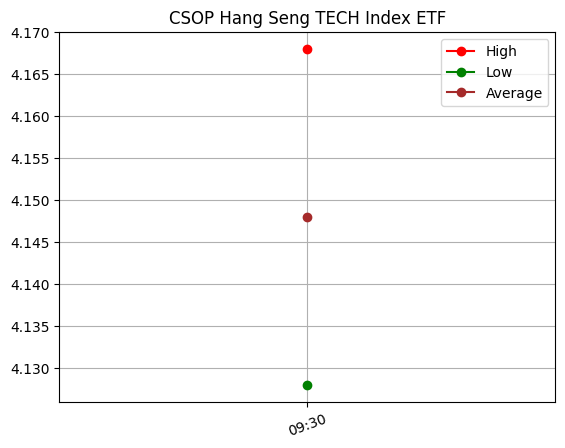
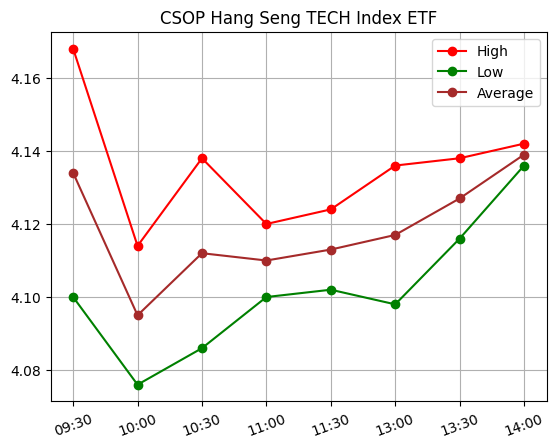
update

diff --git a/update.py b/update.py
@@ -5,14 +5,11 @@ from pathlib import Path
 import matplotlib.pyplot as plt
 import os
 
-index_html = Path("./index.html").resolve()
 index_md = Path("./index.md").resolve()
 record_dir = Path("./record").resolve()
 list_dir = Path("./stock_list").resolve()
 img_dir = Path("image")
 summary_md_dir = Path("summary.md")
-summary_html_dir = Path("summary.html")
-
 
 def get_yahoo_longname(symbol):
     import urllib
@@ -69,23 +66,27 @@ update_stock_7d = lambda name, my_price, hold_n: update_stock(name, my_price, ho
 update_stock_1m = lambda name, my_price, hold_n: update_stock(name, my_price, hold_n, "1d", "30m", "%H:%M")
 
 dir_to_url = lambda abs_dir: '/'+'/'.join(abs_dir.parts[2:])
-dir_to_md = lambda abs_dir: '/'+'/'.join(abs_dir.parts[3:])
+rel_dir_to_md = lambda rel_dir: '/'.join(rel_dir.parts[3:])
 
-def write_html(html_f, dir, display_text, type):
-    url = dir_to_url(dir)
-    match type:
-        case 'a':
-            html_f.write('<a href="{}">{}</a>'.format(url, display_text))
-        case 'i':
-            html_f.write('<img src="{}" alt="{}"/>\n'.format(url, display_text))
+#def write_html(html_f, dir, display_text, type):
+#    url = dir_to_url(dir)
+#    match type:
+#        case 'a':
+#            html_f.write('<a href="{}">{}</a>'.format(url, display_text))
+#        case 'i':
+#            html_f.write('<img src="{}" alt="{}"/>\n'.format(url, display_text))
 
-def write_md(md_f, dir, display_text):
-    md = dir_to_md(dir)
-    md_f.write('![{}]({})'.format(display_text, md))
+def write_link(md_f, dir, display_text):
+    md = rel_dir_to_md(dir)
+    md_f.write('[{}]({})'.format(display_text, md))
 
-def write_html_md(html_f, md_f, img_dir, display_text, type):
-    write_html(html_f, img_dir, display_text, type)
-    write_md(md_f, img_dir, display_text)
+def write_img(md_f, dir, display_text):
+    md_f.write('!')
+    write_link(md_f, dir, display_text)
+
+#def write_html_md(html_f, md_f, img_dir, display_text, type):
+#    write_html(html_f, img_dir, display_text, type)
+#    write_md(md_f, img_dir, display_text)
 
 mkdir_p = lambda path: path.mkdir(parents=True, exist_ok=True)
 
@@ -93,66 +94,58 @@ mkdir_p = lambda path: path.mkdir(parents=True, exist_ok=True)
 #init
 mkdir_p(record_dir)
 
-with open(index_html, "w+") as f_index_html:
-    with open(index_md, "w+") as f_index_md:
+with open(index_md, "w+") as f_index_md:
+    for f_name in os.listdir(list_dir):
+        f_dir = list_dir.joinpath(f_name)
 
-        f_index_html.write('<!DOCTYPE html>\n')
-        for f_name in os.listdir(list_dir):
-            f_dir = list_dir.joinpath(f_name)
+        f_stem = f_dir.stem
 
-            f_stem = f_dir.stem
+        f_set_dir = record_dir.joinpath(f_stem)
+        mkdir_p(f_set_dir)
 
-            f_set_dir = record_dir.joinpath(f_stem)
-            mkdir_p(f_set_dir)
+        summary_md_abs_dir = f_set_dir.joinpath(summary_md_dir)
 
-            summary_html_abs_dir = f_set_dir.joinpath(summary_html_dir)
-            summary_md_abs_dir = f_set_dir.joinpath(summary_md_dir)
+        with open(summary_md_abs_dir, "w+") as summary_md_f:
+            img_dir = f_set_dir.joinpath(img_dir)
+            mkdir_p(img_dir)
 
-            with open(summary_md_abs_dir, "w+") as summary_md_f:
-                with open(summary_html_abs_dir, "w+") as summary_html_f:
+            df_stock_list = pd.read_csv(f_dir, header=None, names=['Name', 'My_price', 'Hold_n'], sep="\s+", index_col=0)
 
-                    img_dir = f_set_dir.joinpath(img_dir)
-                    mkdir_p(img_dir)
+            for name, row in df_stock_list.iterrows():
+                #my_price = df_stock_list[df_stock_list['Name'] == name]
 
-                    df_stock_list = pd.read_csv(f_dir, header=None, names=['Name', 'My_price', 'Hold_n'], sep="\s+", index_col=0)
+                os.chdir(f_set_dir.joinpath(img_dir))
+                stock_name = name.strip()
 
-                    for name, row in df_stock_list.iterrows():
-                        #my_price = df_stock_list[df_stock_list['Name'] == name]
+                stock_1m = update_stock_1m(stock_name, row['My_price'], row['Hold_n'])
+                stock_7d = update_stock_7d(stock_name, row['My_price'], row['Hold_n'])
 
-                        os.chdir(f_set_dir.joinpath(img_dir))
-                        stock_name = name.strip()
+                os.chdir(record_dir)
 
-                        stock_1m = update_stock_1m(stock_name, row['My_price'], row['Hold_n'])
-                        stock_7d = update_stock_7d(stock_name, row['My_price'], row['Hold_n'])
+                def write_stock(stock_data):
+                    write_img(summary_md_f, stock_data['img_price_dir'], "price: "+stock_data['longname'])
+                    summary_md_f.write('|')
+                    write_img(summary_md_f, stock_data['img_profit_dir'], "profit: "+stock_data['longname'])
 
-                        os.chdir(record_dir)
+                summary_md_f.write('price|profit|data\n:-:|:-:|:-:\n')
+                write_stock(stock_1m)
+                summary_md_f.write('\n')
+                write_stock(stock_7d)
+                summary_md_f.write('\n---\n')
 
-                        def write_stock(stock_data):
-                            write_html_md(summary_html_f, summary_md_f, stock_data['img_price_dir'], "price: "+stock_data['longname'], 'i')
-                            summary_md_f.write('|')
-                            write_html_md(summary_html_f, summary_md_f, stock_data['img_profit_dir'], "profit: "+stock_data['longname'], 'i')
+                #write_html_md(summary_html_f, summary_md_f, output_img_price_1m_dir, output_img_price_1m_dir.stem, 'i')
+                #write_html_md(summary_html_f, summary_md_f, output_img_price_7d_dir, output_img_price_1m_dir.stem, 'i')
 
-                        summary_md_f.write('price|profit|data\n:-:|:-:|:-:\n')
-                        write_stock(stock_1m)
-                        summary_md_f.write('\n')
-                        write_stock(stock_7d)
-                        summary_md_f.write('\n---\n')
+                #img_url = dir_to_url(output_img_price_7d_dir)
+                #img_md = dir_to_md(output_img_price_7d_dir)
+                #summary_html_f.write('<img src="{}" alt="{}"/>\n'.format(img_url, stock_name))
+                #summary_md_f.write('![{}]({})\n'.format(stock_name, img_md))
 
-                        #write_html_md(summary_html_f, summary_md_f, output_img_price_1m_dir, output_img_price_1m_dir.stem, 'i')
-                        #write_html_md(summary_html_f, summary_md_f, output_img_price_7d_dir, output_img_price_1m_dir.stem, 'i')
+            write_link(f_index_md, summary_md_abs_dir, f_stem)
+            #summary_html_url = dir_to_url(summary_html_abs_dir)
+            #summary_html_md = dir_to_md(summary_md_abs_dir)
+            #f_index_html.write('<a href="{}">{}</a>'.format(summary_html_url, f_stem))
+            #f_index_md.write('![{}]({})'.format(f_stem, summary_html_md))
 
-                        #img_url = dir_to_url(output_img_price_7d_dir)
-                        #img_md = dir_to_md(output_img_price_7d_dir)
-                        #summary_html_f.write('<img src="{}" alt="{}"/>\n'.format(img_url, stock_name))
-                        #summary_md_f.write('![{}]({})\n'.format(stock_name, img_md))
-
-                write_html(f_index_html, summary_html_abs_dir, f_stem, 'a')
-                write_md(f_index_md, summary_md_abs_dir, f_stem)
-                #summary_html_url = dir_to_url(summary_html_abs_dir)
-                #summary_html_md = dir_to_md(summary_md_abs_dir)
-                #f_index_html.write('<a href="{}">{}</a>'.format(summary_html_url, f_stem))
-                #f_index_md.write('![{}]({})'.format(f_stem, summary_html_md))
-
-exit(1)
 
 

diff --git a/record/list_1/summary.md b/record/list_1/summary.md
@@ -1,10 +1,10 @@
 price|profit|data
 :-:|:-:|:-:
-![price: CSOP Hang Seng TECH Index ETF](/record/list_1/image/3033.HK_1d-30m.png)|![profit: CSOP Hang Seng TECH Index ETF](/record/list_1/image/3033.HK_1d-30m_profit.png)
-![price: CSOP Hang Seng TECH Index ETF](/record/list_1/image/3033.HK_7d-1d.png)|![profit: CSOP Hang Seng TECH Index ETF](/record/list_1/image/3033.HK_7d-1d_profit.png)
+![price: CSOP Hang Seng TECH Index ETF](record/list_1/image/3033.HK_1d-30m.png)|![profit: CSOP Hang Seng TECH Index ETF](record/list_1/image/3033.HK_1d-30m_profit.png)
+![price: CSOP Hang Seng TECH Index ETF](record/list_1/image/3033.HK_7d-1d.png)|![profit: CSOP Hang Seng TECH Index ETF](record/list_1/image/3033.HK_7d-1d_profit.png)
 ---
 price|profit|data
 :-:|:-:|:-:
-![price: CK Hutchison Holdings Limited](/record/list_1/image/0001.HK_1d-30m.png)|![profit: CK Hutchison Holdings Limited](/record/list_1/image/0001.HK_1d-30m_profit.png)
-![price: CK Hutchison Holdings Limited](/record/list_1/image/0001.HK_7d-1d.png)|![profit: CK Hutchison Holdings Limited](/record/list_1/image/0001.HK_7d-1d_profit.png)
+![price: CK Hutchison Holdings Limited](record/list_1/image/0001.HK_1d-30m.png)|![profit: CK Hutchison Holdings Limited](record/list_1/image/0001.HK_1d-30m_profit.png)
+![price: CK Hutchison Holdings Limited](record/list_1/image/0001.HK_7d-1d.png)|![profit: CK Hutchison Holdings Limited](record/list_1/image/0001.HK_7d-1d_profit.png)
 ---

diff --git a/index.md b/index.md
@@ -1,1 +1,1 @@
-![list_1](/record/list_1/summary.md)
+[list_1](record/list_1/summary.md)
